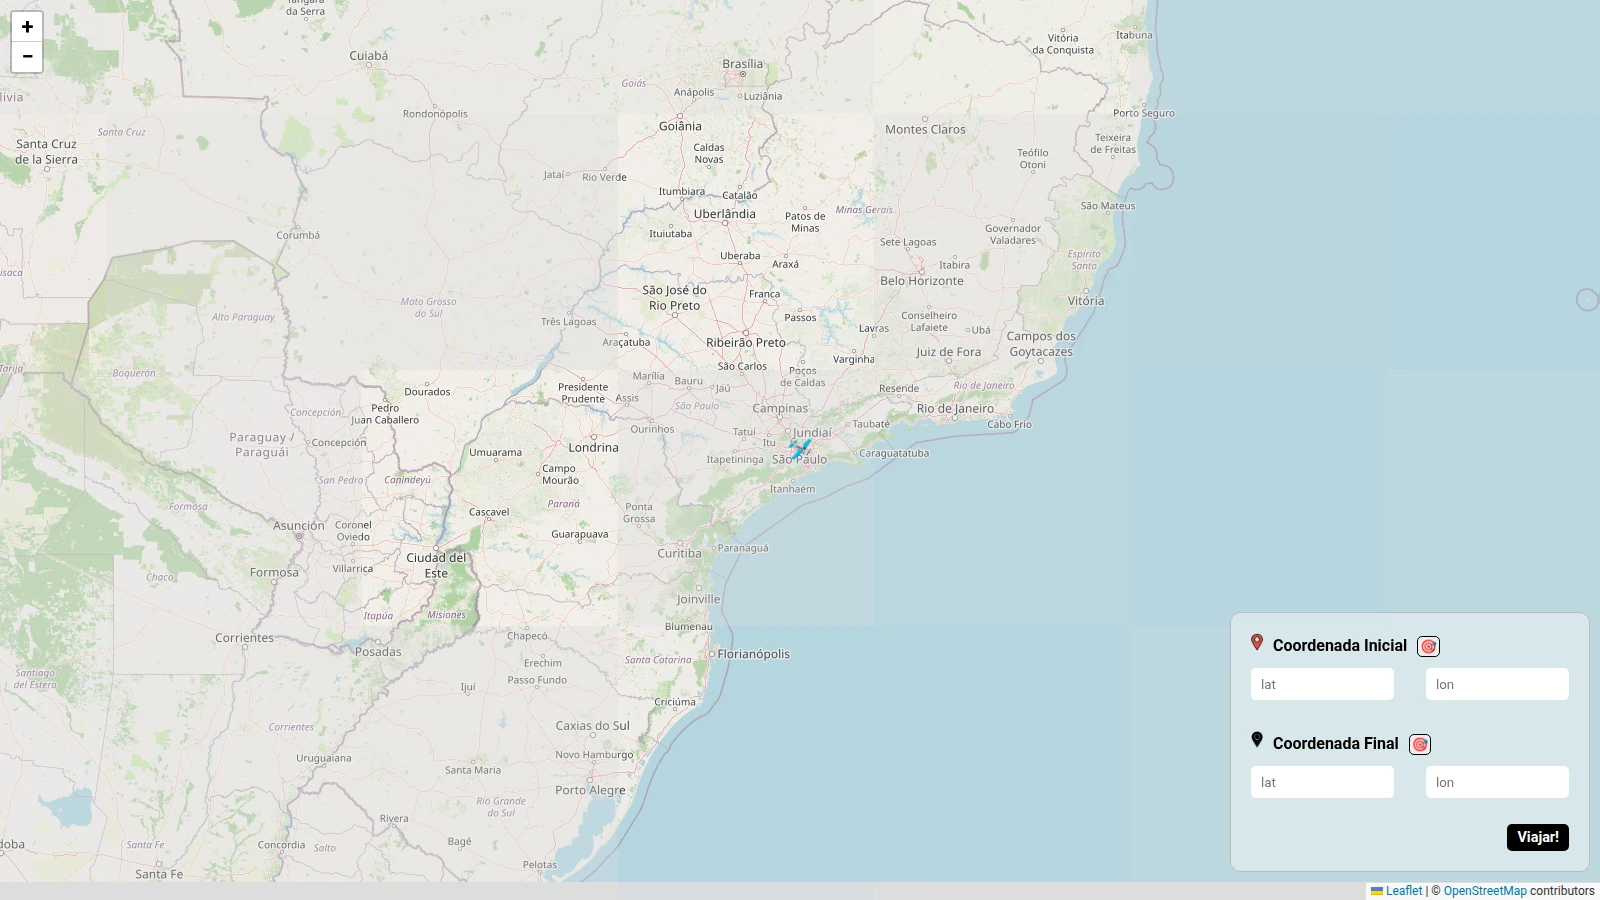
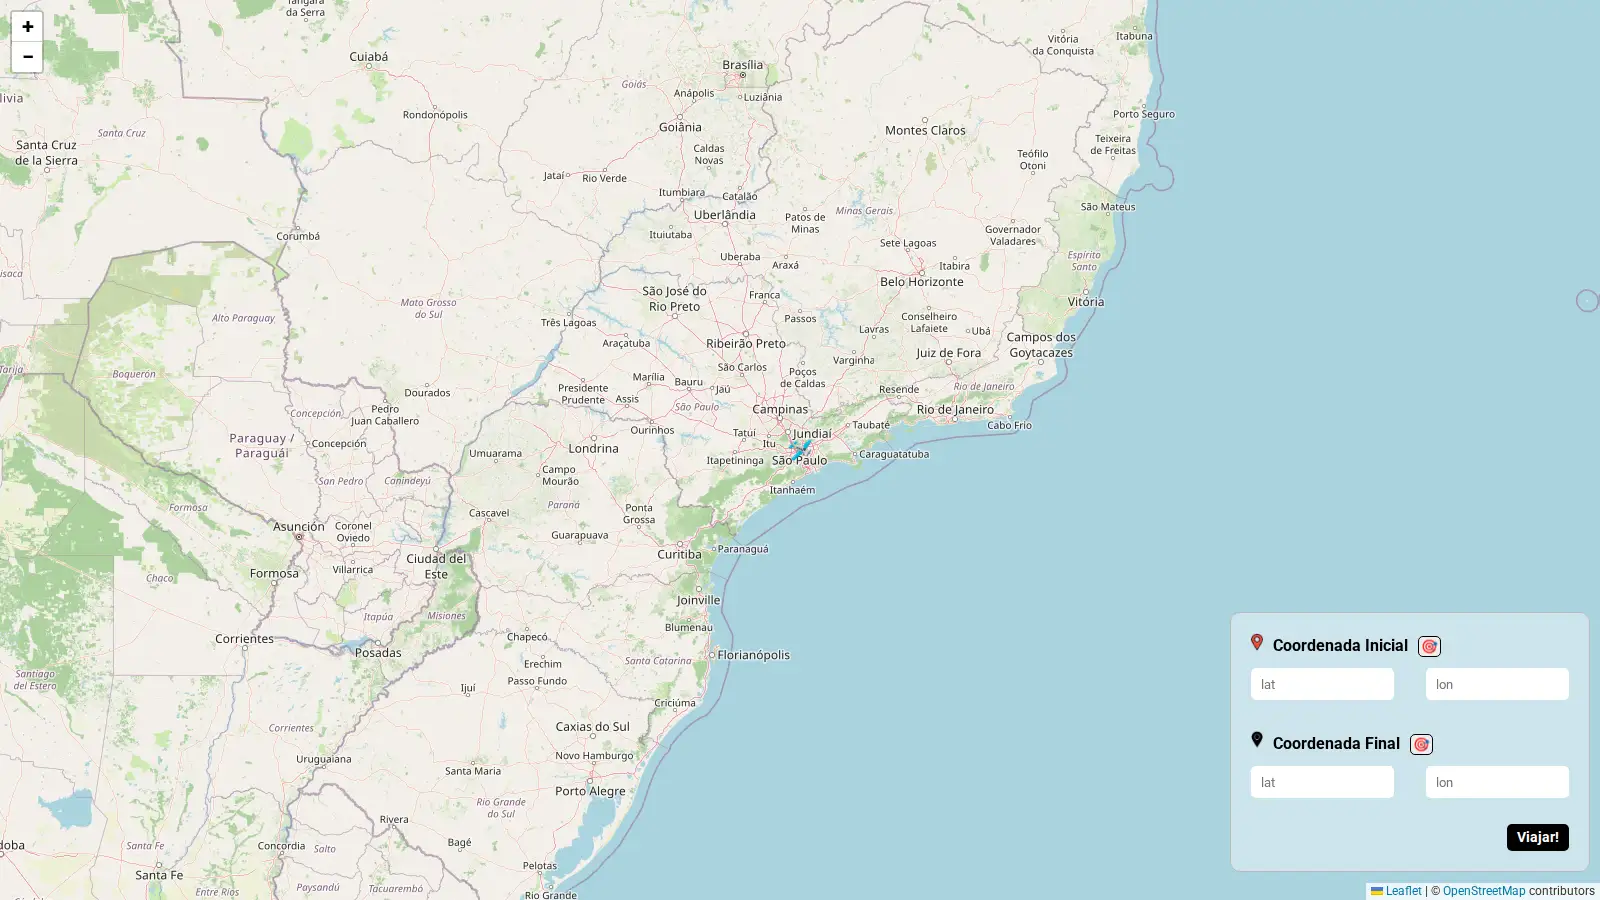
Perf :zap: [#139] Recomprime as capturas do Maps e guarda o peso por teste
Captura nova do Maps (1600x900) rodando o repositório localmente; o 1-large
cai de 167.486 para 98.766 bytes (WebP q=0.64 via canvas do Chromium do
Playwright, mesmo método de generateProfilePhoto) e o 1-small de 27.574 para
21.496 bytes (q=0.80, 640x360).

diff --git a/src/services/content/test/mapsImageBudget.test.ts b/src/services/content/test/mapsImageBudget.test.ts
@@ -1,0 +1,35 @@
+// @vitest-environment node
+import { readFile } from "node:fs/promises"
+import { join } from "node:path"
+import { describe, expect, it } from "vitest"
+import readImageSize from "@/services/content/readImageSize"
+
+const MAPS_IMAGES_DIR = join(
+    process.cwd(),
+    "public",
+    "images",
+    "projects",
+    "01a13188-a1da-7d4b-901c-e7bcc81d497b"
+)
+const MAX_LARGE_BYTES = 102_400
+const MAX_SMALL_BYTES = 27_574
+
+async function readMapsImage(name: string) {
+    return new Uint8Array(await readFile(join(MAPS_IMAGES_DIR, name)))
+}
+
+describe("peso das capturas do Maps", () => {
+    it("mantém o 1-large.webp em 1600x900 e até 100 KB", async () => {
+        const bytes = await readMapsImage("1-large.webp")
+
+        expect(readImageSize(bytes)).toEqual({ width: 1600, height: 900 })
+        expect(bytes.length).toBeLessThanOrEqual(MAX_LARGE_BYTES)
+    })
+
+    it("mantém o 1-small.webp em 640x360 e sem ficar maior que o atual", async () => {
+        const bytes = await readMapsImage("1-small.webp")
+
+        expect(readImageSize(bytes)).toEqual({ width: 640, height: 360 })
+        expect(bytes.length).toBeLessThanOrEqual(MAX_SMALL_BYTES)
+    })
+})
